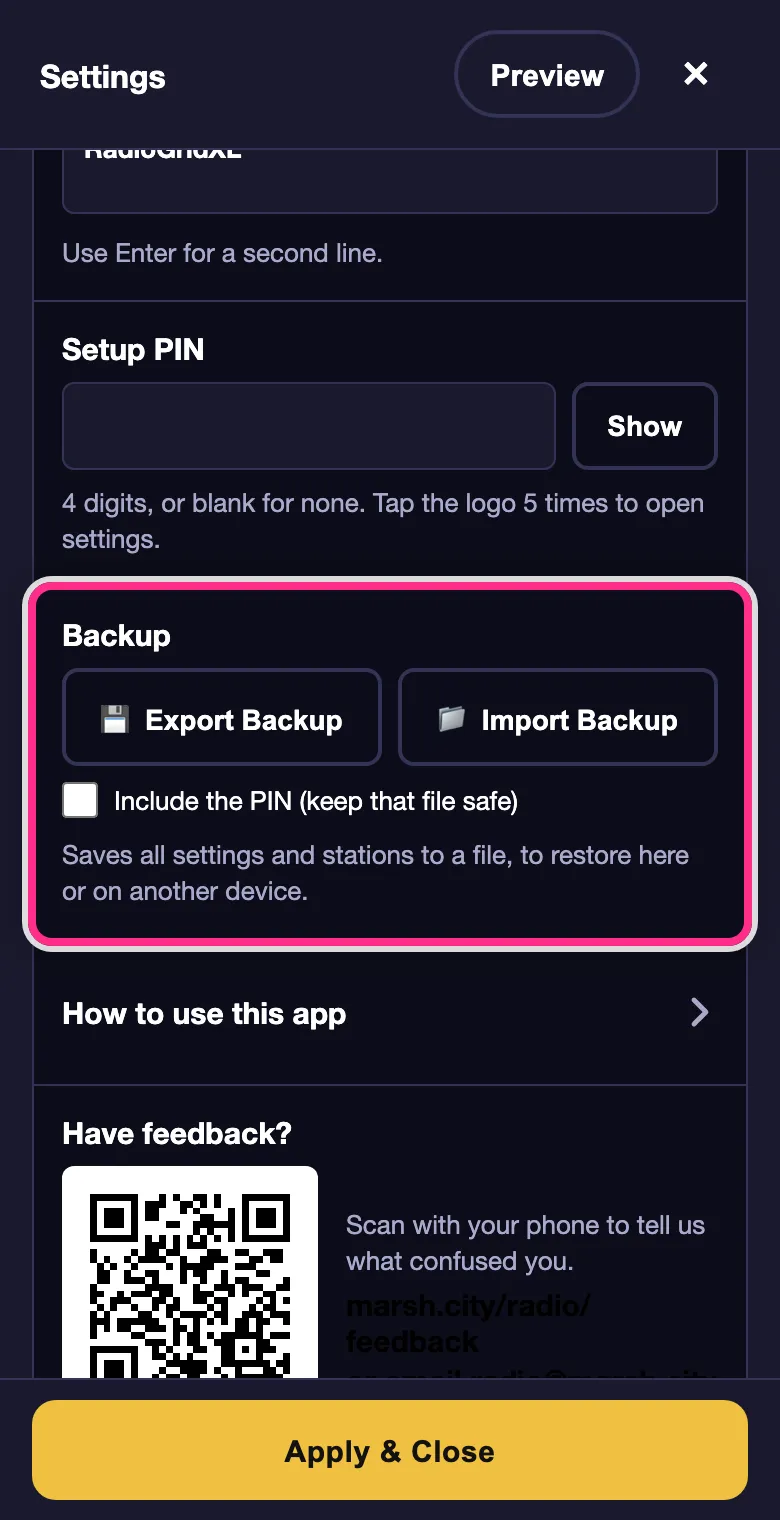
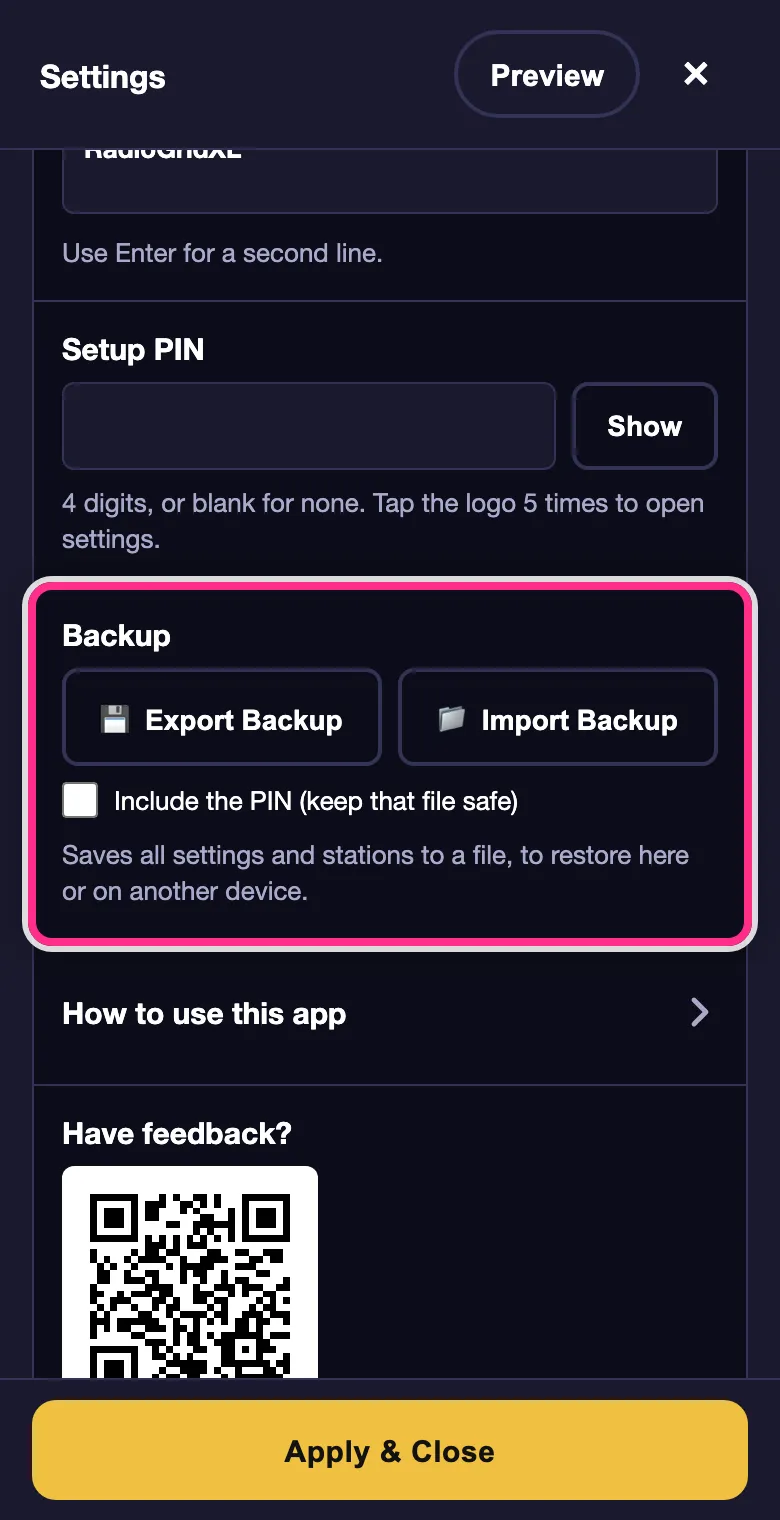
radio: sync RadioGridXL v7.19.5 (d0c7db0)

Changed region(s): [[0.4308, 0.8039, 0.8923, 0.8349]]

diff --git a/public/radio/index.html b/public/radio/index.html
@@ -1603,7 +1603,9 @@ html.is-desktop .overlay-body { font-size: 20px; }
 .s-switch[aria-checked="true"] .s-switch-knob { transform: translateX(24px); background: var(--on-accent); }
 .s-switch:disabled { opacity: 0.45; cursor: not-allowed; }
 .s-switch:focus-visible { outline: 2px solid var(--accent); outline-offset: 2px; border-radius: 18px; }
-.s-unavailable .s-section-title { opacity: 0.7; }
+/* Greyed by colour, not opacity: Night's amber at 70% fell to 4.22:1.
+   --settings-label is the hint colour, which holds AA in every theme. */
+.s-unavailable .s-section-title { color: var(--settings-label); }
 
 /* Theme: a family swatch, drawn like a small station button, plus a mode. */
 .theme-families { display: grid; grid-template-columns: repeat(4, minmax(0, 1fr)); gap: 8px; margin-bottom: 8px; }
@@ -1680,12 +1682,16 @@ html.is-desktop .overlay-body { font-size: 20px; }
    light-on-dark codes. */
 .feedback-row { display: flex; gap: 14px; align-items: center; flex-wrap: wrap; }
 .feedback-qr { width: 128px; height: 128px; flex-shrink: 0; border-radius: 6px; }
-.feedback-text { flex: 1 1 130px; min-width: 0; display: flex; flex-direction: column; gap: 2px; }
+.feedback-text { flex: 1 1 215px; min-width: 0; display: flex; flex-direction: column; gap: 2px; }
+/* 215px fits the longer address (marsh.city/radio/feedback, 15px bold) on
+   one line; when the column beside the QR is narrower, the text moves under
+   the QR at full width rather than breaking an address mid-way. */
 /* Text, not links (see the markup): no underline or accent colour, so it
    doesn't look tappable. Selectable, for copying on a desktop. */
 .feedback-address {
   font-size: 15px;
   font-weight: 700;
+  color: var(--settings-text);
   overflow-wrap: anywhere;
 }
 .backup-row { display: flex; gap: 8px; margin-bottom: 8px; }
@@ -2953,7 +2959,8 @@ html.theme-fading, html.theme-fading * {
             <div class="feedback-text">
               <div class="s-hint" id="feedback-hint">Scan with your phone to tell us what confused you.</div>
               <div class="feedback-address" id="feedback-page-address">marsh.city/<wbr>radio/<wbr>feedback</div>
-              <div class="feedback-address" id="feedback-mail-address">or email radio@<wbr>marsh.city</div>
+              <div class="s-hint feedback-or">or email</div>
+              <div class="feedback-address" id="feedback-mail-address">radio@<wbr>marsh.city</div>
             </div>
           </div>
         </div>
@@ -2972,7 +2979,7 @@ html.theme-fading, html.theme-fading * {
         </div>
       </div>
       <button id="reset-btn" onclick="confirmReset()">Reset to Defaults</button>
-      <div id="settings-version" aria-hidden="true">RadioGridXL v7.19.4</div>
+      <div id="settings-version" aria-hidden="true">RadioGridXL v7.19.5</div>
     </section>
     </div>
 

diff --git a/public/radio/sw.js b/public/radio/sw.js
@@ -5,7 +5,7 @@
    it sat at v1 from 7.5.0). Keep it in lockstep with the version-bump routine.
    The server sends sw.js no-cache, so each load refetches this file and the
    install→activate purge cycle kicks in. */
-const CACHE_VERSION = 'rgxl-shell-7.19.4-44794f71';
+const CACHE_VERSION = 'rgxl-shell-7.19.5-eb691d7c';
 
 /* Shell assets, relative to the SW scope (the directory it's served from).
    start_url is "." so the HTML is reachable both as "./" and by filename.

diff --git a/src/content/guides/radiogridxl.md b/src/content/guides/radiogridxl.md
@@ -1,7 +1,7 @@
 ---
 title: How to use RadioGridXL
 description: Open settings, change and add stations, pick a theme, and set it up for someone who just wants to press a button and hear music.
-appVersion: 7.19.4
+appVersion: 7.19.5
 ---
 
 RadioGridXL is built for the person listening: big buttons, one per station, nothing else to figure out. Everything you can change is tucked away in a hidden settings panel, so the listener never lands there by accident.
